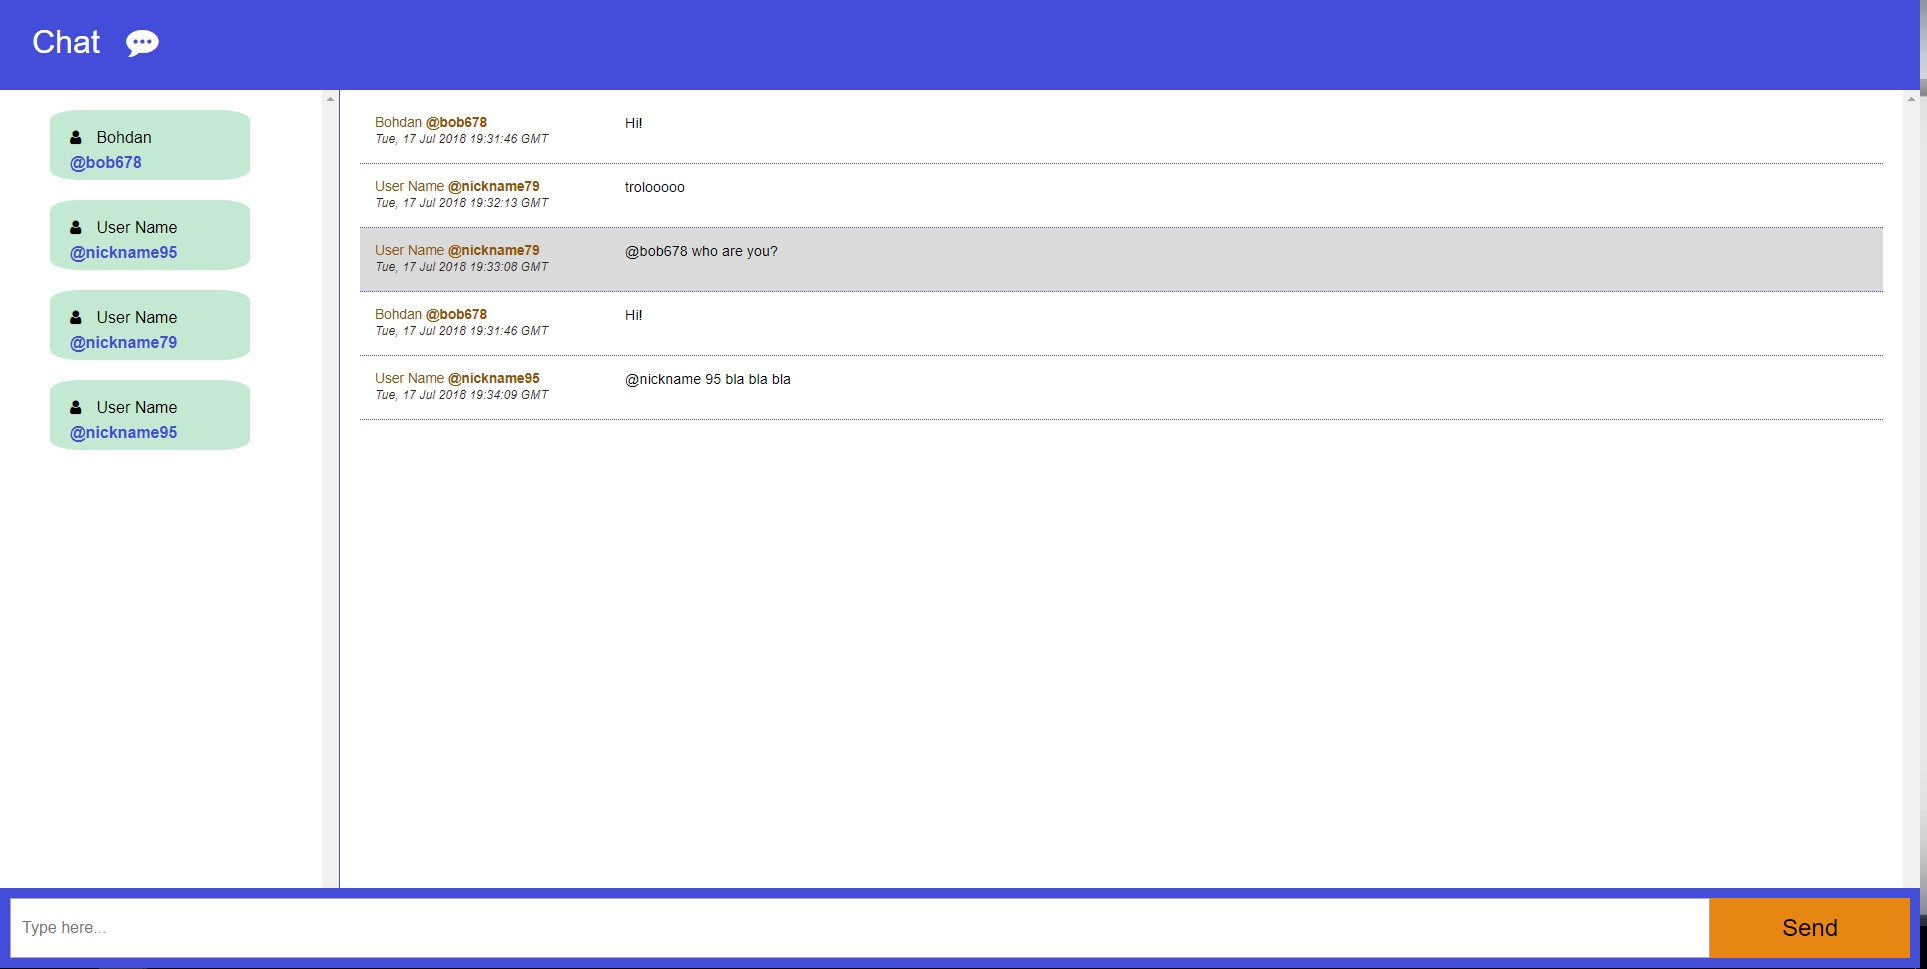
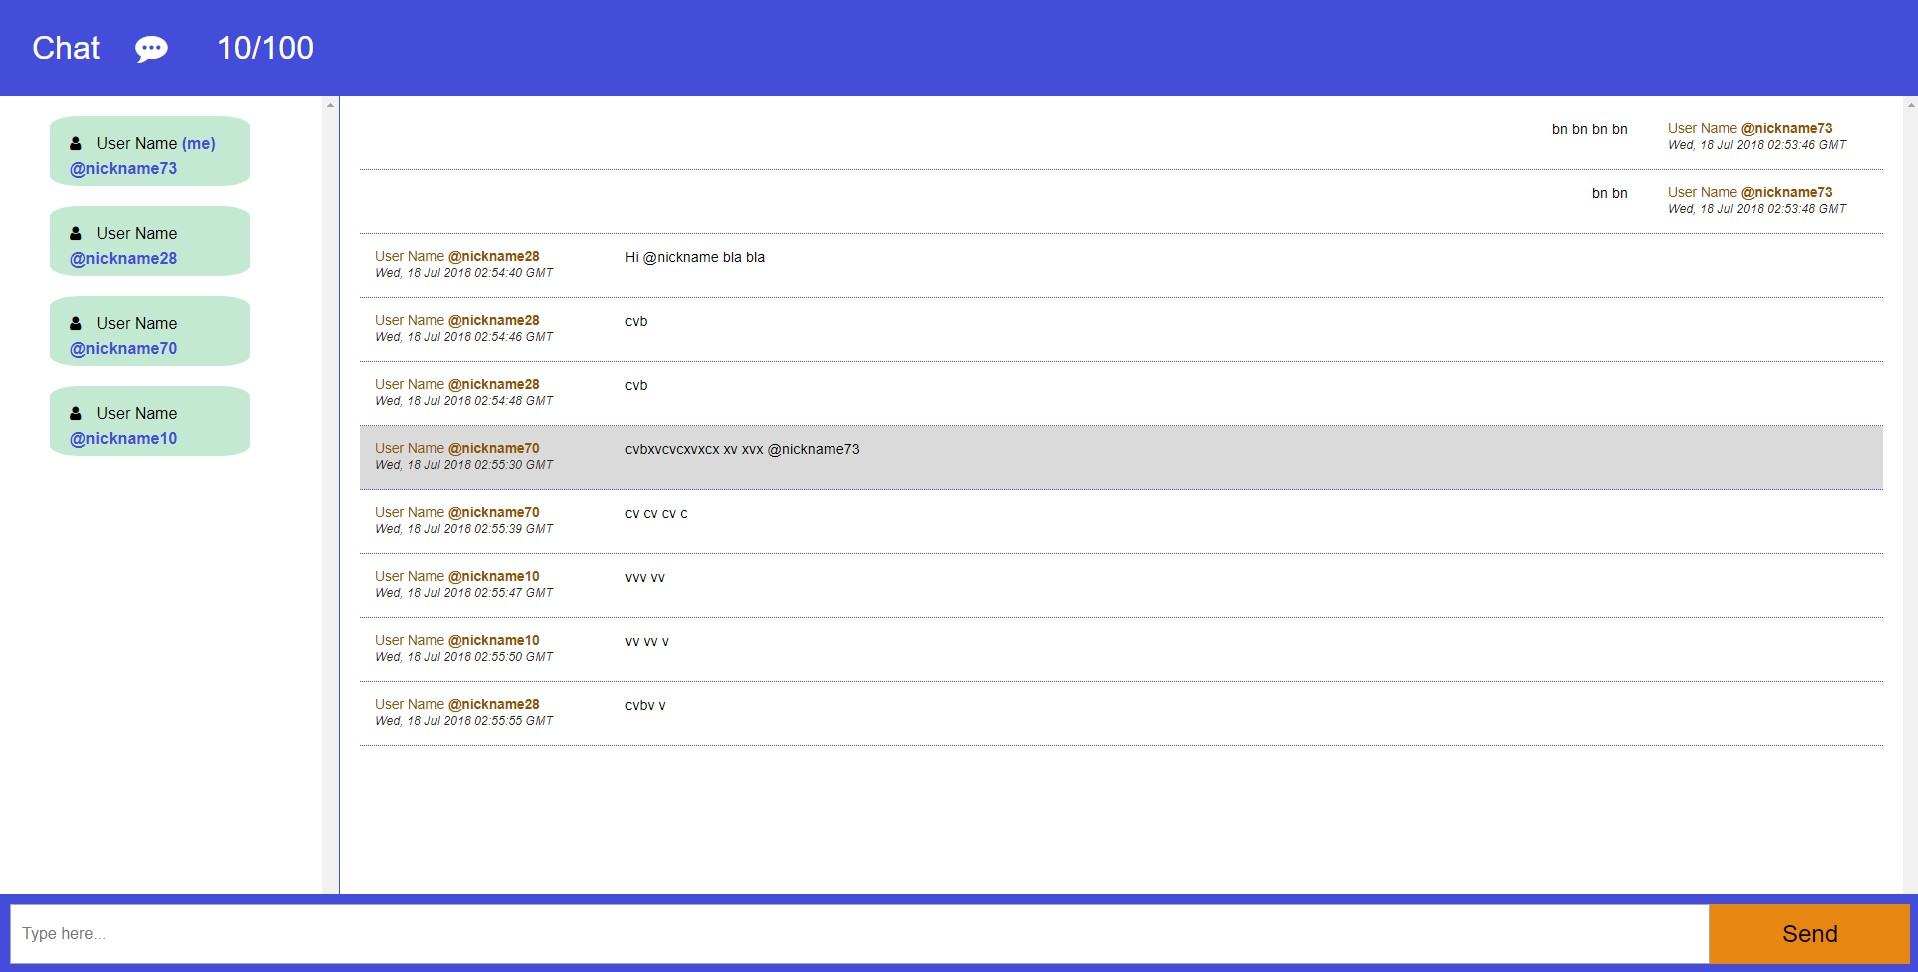
styles

diff --git a/public/script.js b/public/script.js
@@ -2,6 +2,7 @@
   let nameInput = document.getElementById('usernameInput');
   let nicknameInput = document.getElementById('nicknameInput');
   let inputMessage = document.getElementById('inputMessage');
+  let counterMsg = document.getElementById('counter-msg');
   let loginButton = document.getElementById('button-enter');
   let sendMsgButton = document.getElementById('send-msg-btn');
   let messagesDiv = document.getElementById('messages');
@@ -18,6 +19,7 @@
     userNickname = nicknameInput.value || 'nickname' + Math.floor(Math.random() * 100);
     loginArea.style.display = 'none';
     chatArea.style.display = 'block';
+    nameInput.value = '', nicknameInput.value = '';
 
     let user = {
       name: userName,
@@ -53,7 +55,7 @@
   };
 
 
-
+  // request data function
   let ajaxRequest = (options) => {
     let url = options.url || '/';
     let method = options.method || 'GET';
@@ -73,7 +75,7 @@
 
   };
 
-
+  // get and update users data
   let getUsers = () => {
     ajaxRequest({
       url: '/users',
@@ -91,7 +93,7 @@
 
   };
 
-
+  // get and update messages data
   let getMessages = () => {
     ajaxRequest({
       url: '/messages',
@@ -99,9 +101,10 @@
       callback: (msg) => {
         msg = JSON.parse(msg);
         messages.innerHTML = '';
+        let length = msg.length;
         for (var i in msg) {
           if (msg.hasOwnProperty(i)) {
-            displayOneMsg(msg[i], userNickname);
+            displayOneMsg(msg[i], userNickname, length);
           }
         }
       }
@@ -109,6 +112,8 @@
 
   };
 
+
+  //update all data
   let getData = () => {
     getMessages();
     getUsers();
@@ -117,24 +122,41 @@
 
 
   //display Message
-  function displayOneMsg(msg, nickname) {
+  function displayOneMsg(msg, nickname, length) {
     if (msg.message != '') {
       let elem = document.createElement('div');
       if (msg.message.indexOf('@' + nickname + ' ') !== -1) {
         elem.style.backgroundColor = "#dadada";
       }
 
-      elem.innerHTML = `<span>${msg.name} <b>@${msg.nickname}</b><br> <i>${msg.time} </i></span><text>${msg.message}</text>`;
+      if (nickname == msg.nickname) {
+        elem.innerHTML = `<text class="right-message">${msg.message}</text><span>${msg.name} <b>@${msg.nickname}</b><br> <i>${msg.time} </i></span>`;
+        elem.style.gridTemplateColumns = '1fr 200px';
+      }
+      else {
+        elem.innerHTML = `<span>${msg.name} <b>@${msg.nickname}</b><br> <i>${msg.time} </i></span><text>${msg.message}</text>`;
+      }
+
       messagesDiv.appendChild(elem);
+      counterMsg.innerHTML = length;
+
+      //auto scroll to bottom
+      messagesDiv.scrollTop = messagesDiv.scrollHeight;
     }
   }
 
   //display User
   function displayOneUser(user) {
     let elem = document.createElement('div');
-    elem.innerHTML = `<li><i class="fa fa-user"></i>${user.name} <br><b>@${user.nickname}</b></li>`;
-    userDiv.appendChild(elem);
 
+    if (userNickname == user.nickname) {
+      elem.innerHTML = `<li><i class="fa fa-user"></i>${user.name}&nbsp;<b>(me)</b><br><b>@${user.nickname}</b></li>`;
+    }
+    else {
+      elem.innerHTML = `<li><i class="fa fa-user"></i>${user.name} <br><b>@${user.nickname}</b></li>`;
+    }
+
+    userDiv.appendChild(elem);
   }
 
 

diff --git a/public/index.html b/public/index.html
@@ -3,7 +3,7 @@
 
 <head>
   <meta charset="UTF-8">
-  <title>Chat Socket.IO - Hometask Bohdan Koldun</title>
+  <title>Chat AJAX - Hometask Bohdan Koldun</title>
   <link rel="stylesheet" href="/public/css/style.css">
   <link rel="stylesheet" href="https://cdnjs.cloudflare.com/ajax/libs/font-awesome/4.7.0/css/font-awesome.min.css">
 </head>
@@ -14,7 +14,12 @@
 
     <!-- Chat -->
     <div class="chat page">
-      <div class="header-chat">Chat&nbsp; &nbsp;<i class="fa fa-commenting"></i></div>
+      <div class="header-chat">
+        Chat&nbsp; &nbsp;
+        <i class="fa fa-commenting"></i>
+        <div style="display:inline; margin-left: 40px;">
+          <span id="counter-msg">0</span>/100</div>
+      </div>
       <div class="chatArea">
         <div id="users"></div>
         <div id="messages"></div>

diff --git a/index.js b/index.js
@@ -10,7 +10,7 @@ let messages = [], users = [];
 // Routing
 app.use(bodyParser.json());
 
-app.use(bodyParser.urlencoded());
+app.use(bodyParser.urlencoded({ extended: true }));
 
 app.get('/', (req, res) => {
   res.sendFile(__dirname + '/public/index.html');
@@ -25,22 +25,22 @@ app.get('/public/script.js', (req, res) => {
 });
 
 app.get('/messages', (req, res) => {
-  res.json(messages);
+  res.status(200).json(messages);
 });
 
 app.post('/messages', (req, res) => {
   saveNewMessage(req.body);
+  res.end();
 });
 
 app.get('/users', (req, res) => {
-  res.json(users);
+  res.status(200).json(users);
 });
 
 app.post('/users', (req, res) => {
   addNewUser(req.body);
+  res.end();
 });
-
-
 
 
 //save new message in the history function

diff --git a/public/css/style.css b/public/css/style.css
@@ -187,7 +187,8 @@ div {
 #messages {
   margin: 0;
   overflow-y: scroll;
-  padding: 10px 20px 10px 20px;
+  padding: 10px 20px 200px 20px;
+  min-height: 100%;
 }
 
 #users{
@@ -235,6 +236,10 @@ div {
   outline: none;
 }
 
+.right-message{
+  text-align: right;
+  padding-right: 40px;
+}
 
 
 /* Input */
